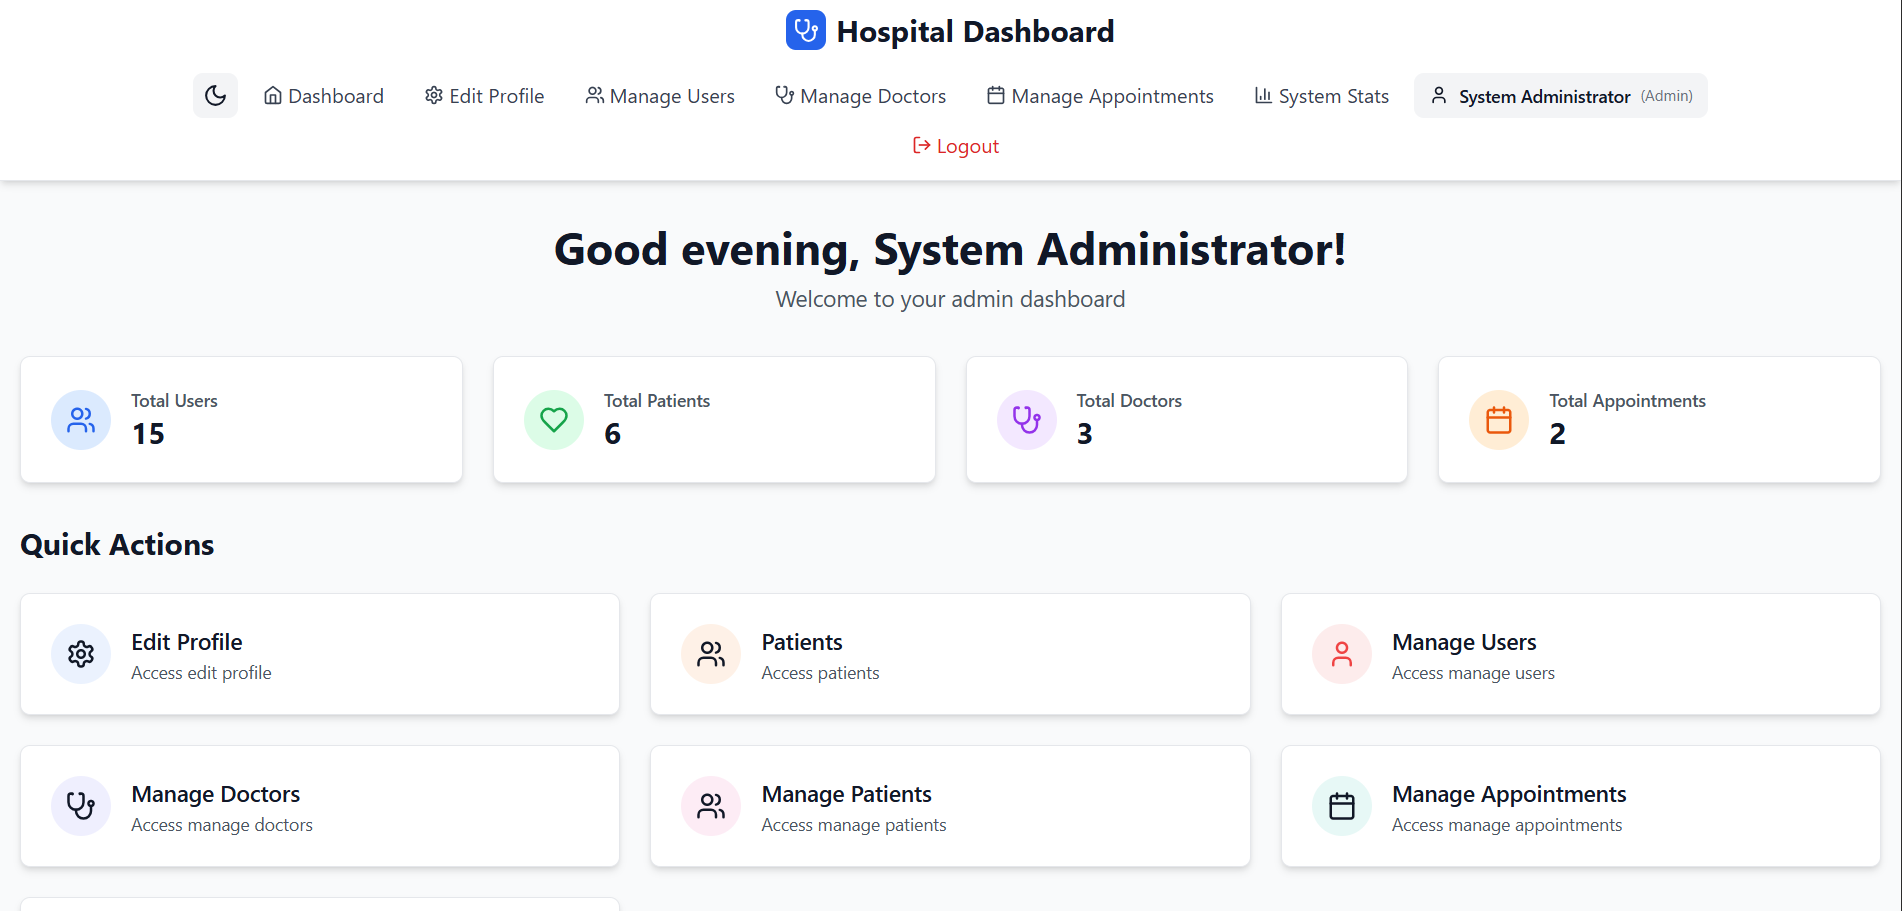
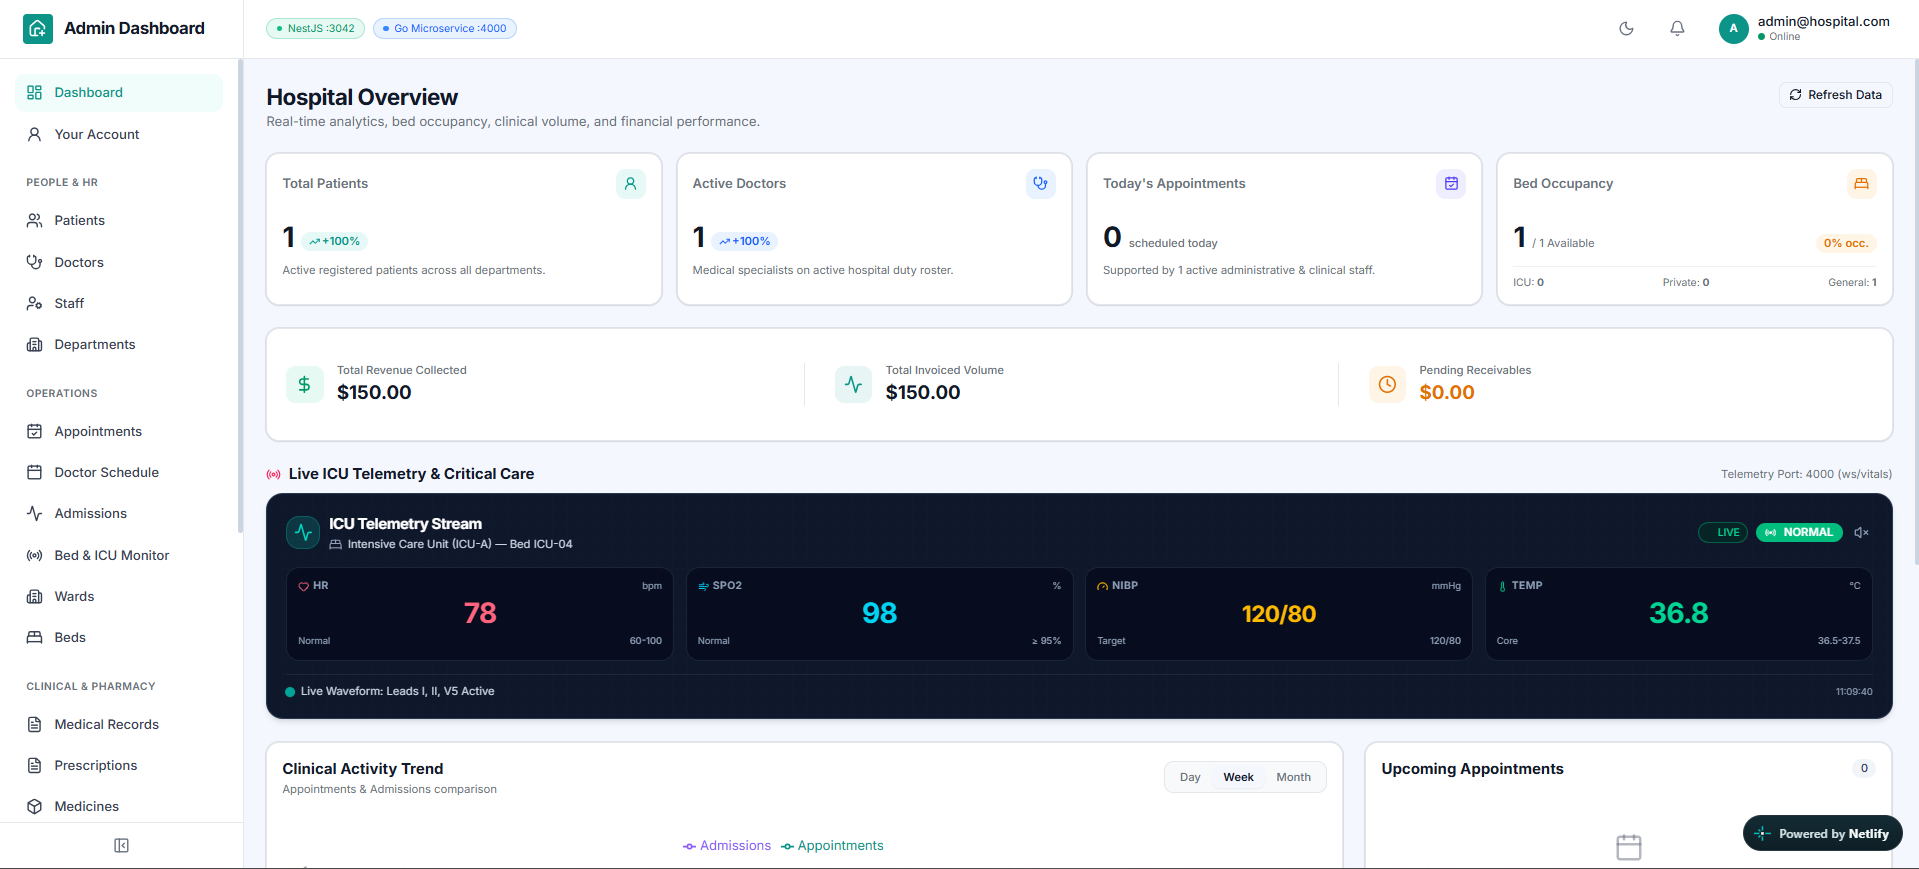
feat: add Projects section component and project image

diff --git a/src/sections/Projects.jsx b/src/sections/Projects.jsx
@@ -2,34 +2,35 @@
 import React from 'react';
 
 const projects = [
-  {
+    {
     id: 1,
+    title: 'Hospital Dashboard',
+    image: '/Project4.png',
+    url: 'https://hospital-dashboard-v3.netlify.app/',
+    description: 'A full-stack hospital dashboard with multiple backend services hosted on AWS EC2.',
+  },
+  {
+    id: 2,
     title: 'CineSapiens',
     image: '/Project1.png',
     url: 'https://cinesapiens.netlify.app/',
     description: 'A movie explorer app powered by TMDB API using React, Vite & Tailwind.',
   },
   {
-    id: 2,
+    id: 3,
     title: 'QuizNest',
     image: '/Project2.png',
     url: 'https://quiz-nest-site.netlify.app/',
     description: 'A colorful and educational quiz site with emojis and geography games.',
   },
   {
-    id: 3,
+    id: 4,
     title: 'Rick & Morty API',
     image: '/Project3.png',
     url: 'https://rick-and-morty-selector-api.netlify.app/',
     description: 'Character selector app using Rick & Morty API, styled with Tailwind.',
   },
-  {
-    id: 4,
-    title: 'Hospital Patient Care Dashboard',
-    image: '/Project4.png',
-    url: 'https://hospital-patient-dashboard-frontend.netlify.app/',
-    description: 'A Full Stack Hospital Patient Care Dashboard',
-  },
+
 ];
 
 const Projects = () => {
